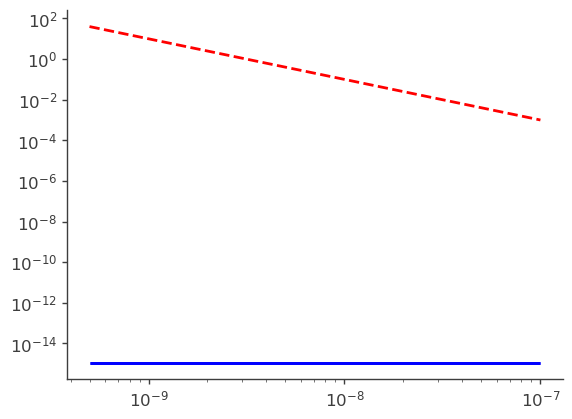
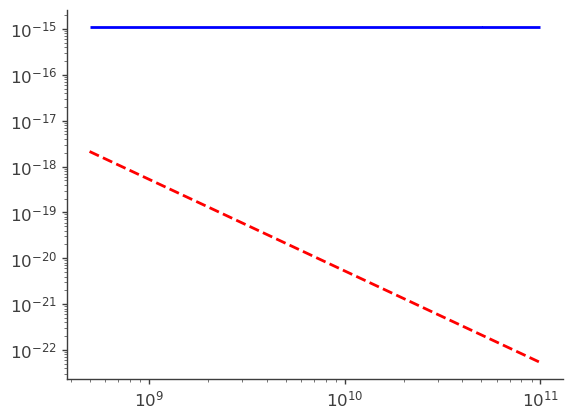
Fixed IntC bounds

diff --git a/crabtests/adding_sources.py b/crabtests/adding_sources.py
@@ -23,10 +23,9 @@ MAP = os.path.join(DATADIR,'maptree-fhit2pct-pass5f-mlp-chunk1-1510.root')
 DR = os.path.join(DATADIR, 'detRes-fhit2pct-pass5f-mlp-refit.root')
 
 ## Define energy bins ##
-midE = np.array([1.0,5.0,10.0]) #TeV
-
-lowerE = 0.5 * 1e-9 # keV 
-upperE = 100 * 1e-9 # keV
+midE = np.array([1.0,5.0,10.0]) # TeV
+lowerE = 0.5 * 1e9              # keV 
+upperE = 100 * 1e9              # keV
 
 ## Load CSV and initialize arrays ##
 df = pd.read_csv("crab.csv",sep='\\s+').to_numpy()
@@ -132,41 +131,41 @@ for j, e in enumerate(midE):
     print("Total TS: %s"%(TS_stacked))
     
 
-#    ####### Check final loglikelihood profile
-#    indminNorm = param_df['value'][0]
-#    minlogN=np.log10(indminNorm) - 1.5
-#    maxlogN=np.log10(indminNorm) + 1.5
-#   
-#    norms_Stack,log_val_Stack,a_Stack = StackingAnalysis.likelihood_profile(indminNorm,fjl,param_df,like_df,"Stacked",computeTS=False)
-# 
-#    IntC = IntervalContainer(lowerE,upperE,norms_Stack,log_val_Stack,101)
-#
-#    # Plot stacked profile #    
-##    figname = os.path.join(DIR,"plots/stacked_%fsources_pllh.png"%(numsources))
-##    plot_logProfile_alt([IntC],param_df,like_df,"Stacked",show=False,minlogN=minlogN,maxlogN=maxlogN,save=figname)
-#
-#
-#    ## Build results dataframe ##
-#    results[e] = {
-#        "indminNorm": param_df['value'][0],
-#        "TS"        : TS_stacked,
-##        "loglike"   : loglike,
-##        "credInt"   : credInt,
-##        "resHigh"   : resHigh,
-#        "norms"     : norms_Stack,
-#        "log_val"   : log_val_Stack,
-#        }
-#
-### Save full results dictionary to one csv per index ##
-#f = open("%s/stacked-ind%s-%s-results.csv"%(DIR,ix,2),'w',newline='')
-#writer = csv.writer(f)
-#writer.writerow(['pivot','indminNorm','TS'] +\
-##,'loglike'] +\
-#    [f"norms_{i}" for i in range(200)] +\
-#    [f"log_val_{i}" for i in range(200)])
-#
-#for pivot,vals in results.items():
-#    writer.writerow([pivot, vals['indminNorm'], vals['TS']]\
-#        #vals['resBay'], vals['resLow'],vals['resHigh']] 
-#        + list(vals['norms']) + list(vals['log_val']))
-#f.close()
+    ####### Check final loglikelihood profile
+    indminNorm = param_df['value'][0]
+    minlogN=np.log10(indminNorm) - 1.5
+    maxlogN=np.log10(indminNorm) + 1.5
+   
+    norms_Stack,log_val_Stack,a_Stack = StackingAnalysis.likelihood_profile(indminNorm,fjl,param_df,like_df,"Stacked",computeTS=False)
+ 
+    IntC = IntervalContainer(lowerE,upperE,norms_Stack,log_val_Stack,101)
+
+    # Plot stacked profile #    
+#    figname = os.path.join(DIR,"plots/stacked_%fsources_pllh.png"%(numsources))
+#    plot_logProfile_alt([IntC],param_df,like_df,"Stacked",show=False,minlogN=minlogN,maxlogN=maxlogN,save=figname)
+
+
+    ## Build results dataframe ##
+    results[e] = {
+        "indminNorm": param_df['value'][0],
+        "TS"        : TS_stacked,
+#        "loglike"   : loglike,
+#        "credInt"   : credInt,
+#        "resHigh"   : resHigh,
+        "norms"     : norms_Stack,
+        "log_val"   : log_val_Stack,
+        }
+
+## Save full results dictionary to one csv per index ##
+f = open("%s/stacked-ind%s-%s-results.csv"%(DIR,ix,'onecrab'),'w',newline='')
+writer = csv.writer(f)
+writer.writerow(['pivot','indminNorm','TS'] +\
+#,'loglike'] +\
+    [f"norms_{i}" for i in range(200)] +\
+    [f"log_val_{i}" for i in range(200)])
+
+for pivot,vals in results.items():
+    writer.writerow([pivot, vals['indminNorm'], vals['TS']]\
+        #vals['resBay'], vals['resLow'],vals['resHigh']] 
+        + list(vals['norms']) + list(vals['log_val']))
+f.close()

diff --git a/crabtests/ind-llh-profiles.py b/crabtests/ind-llh-profiles.py
@@ -22,12 +22,12 @@ DR = os.path.join(DATADIR, 'detRes-fhit2pct-pass5f-mlp-refit.root')
 
 ## Define energy bins ##
 midE = np.array([1.0,5.0,10.0])  # TeV
-lowerE = midE/np.power(10,0.25)
-upperE = np.power(10,np.log10(lowerE+0.5))
+lowerE = 0.5 * 1e9               # keV
+upperE = 100 * 1e9               # keV
 
 ## Set index ##
-ix = "3"      # index in model files = -ix
-index = -3.0
+ix = "2"      # index in model files = -ix
+index = -2.0
 
 ## Load CSV and initialize arrays ##
 df = pd.read_csv("crab.csv",sep='\\s+').to_numpy()
